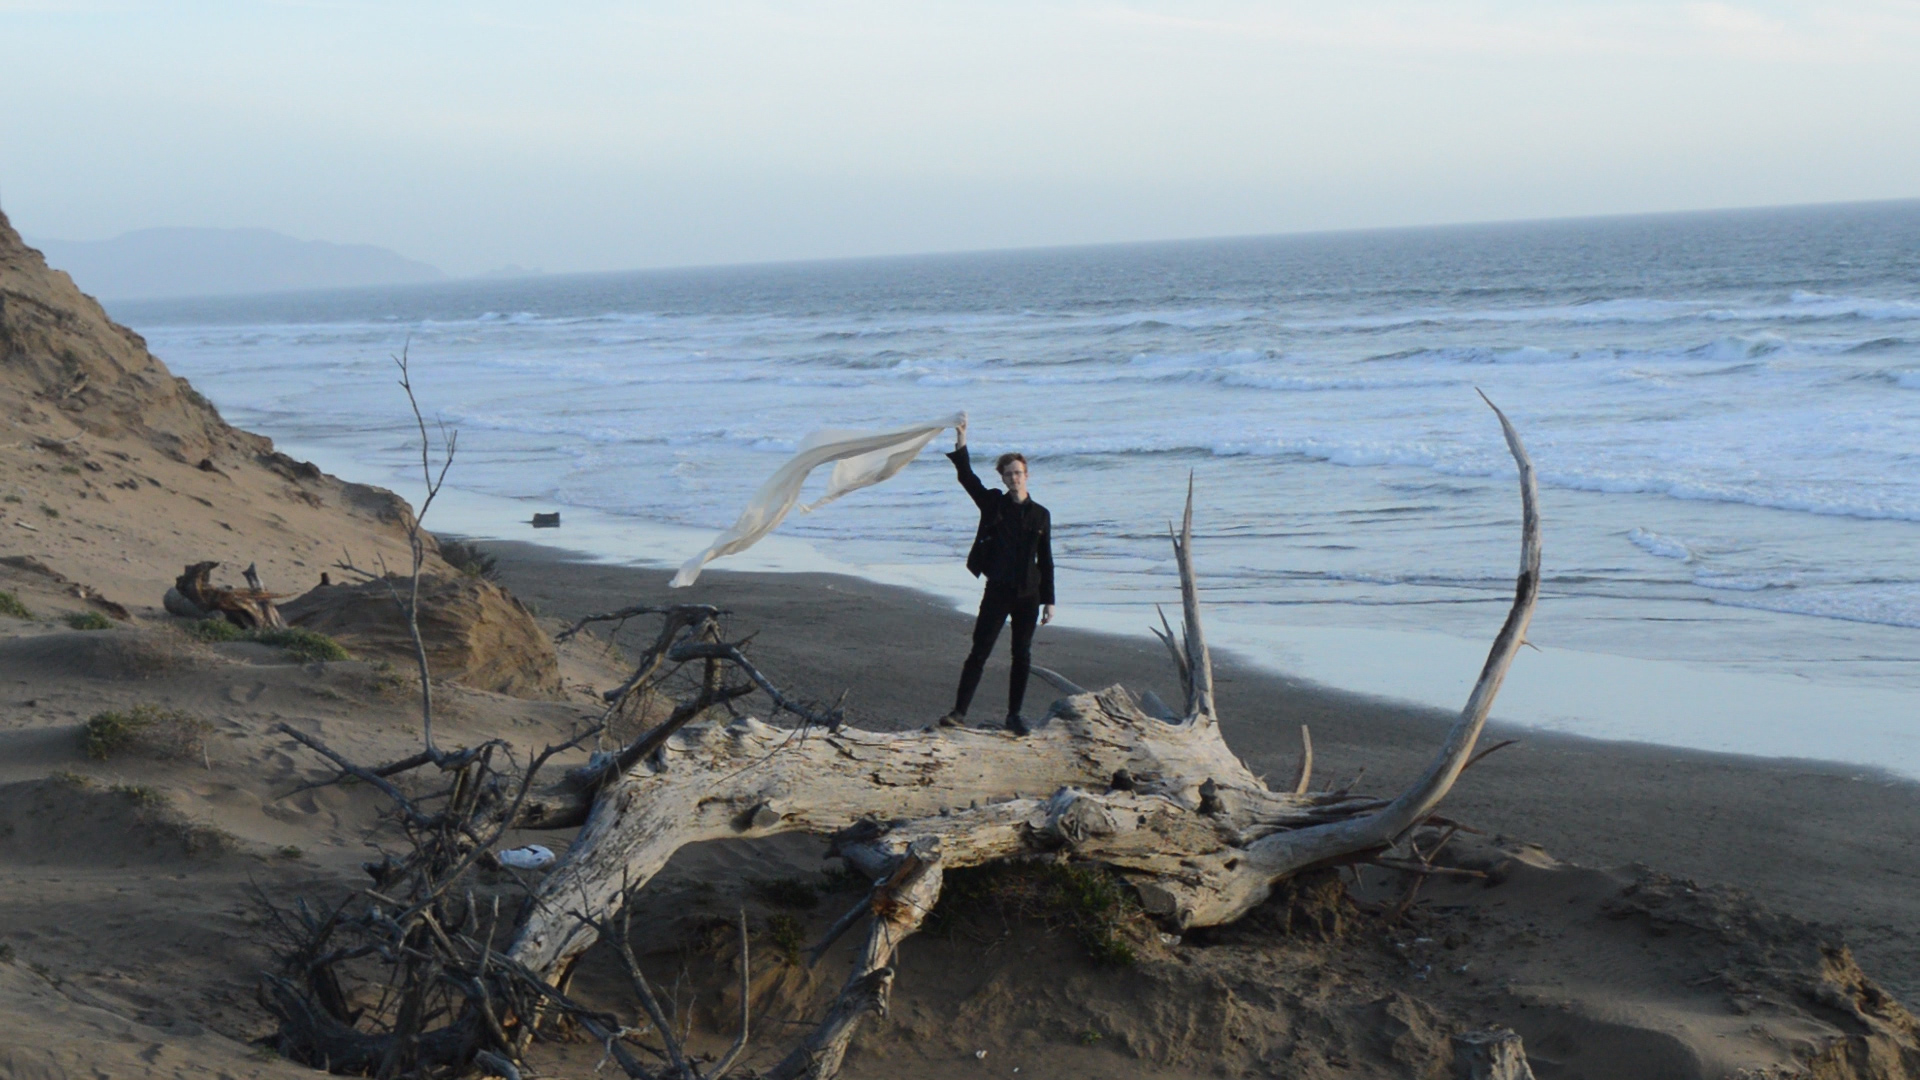
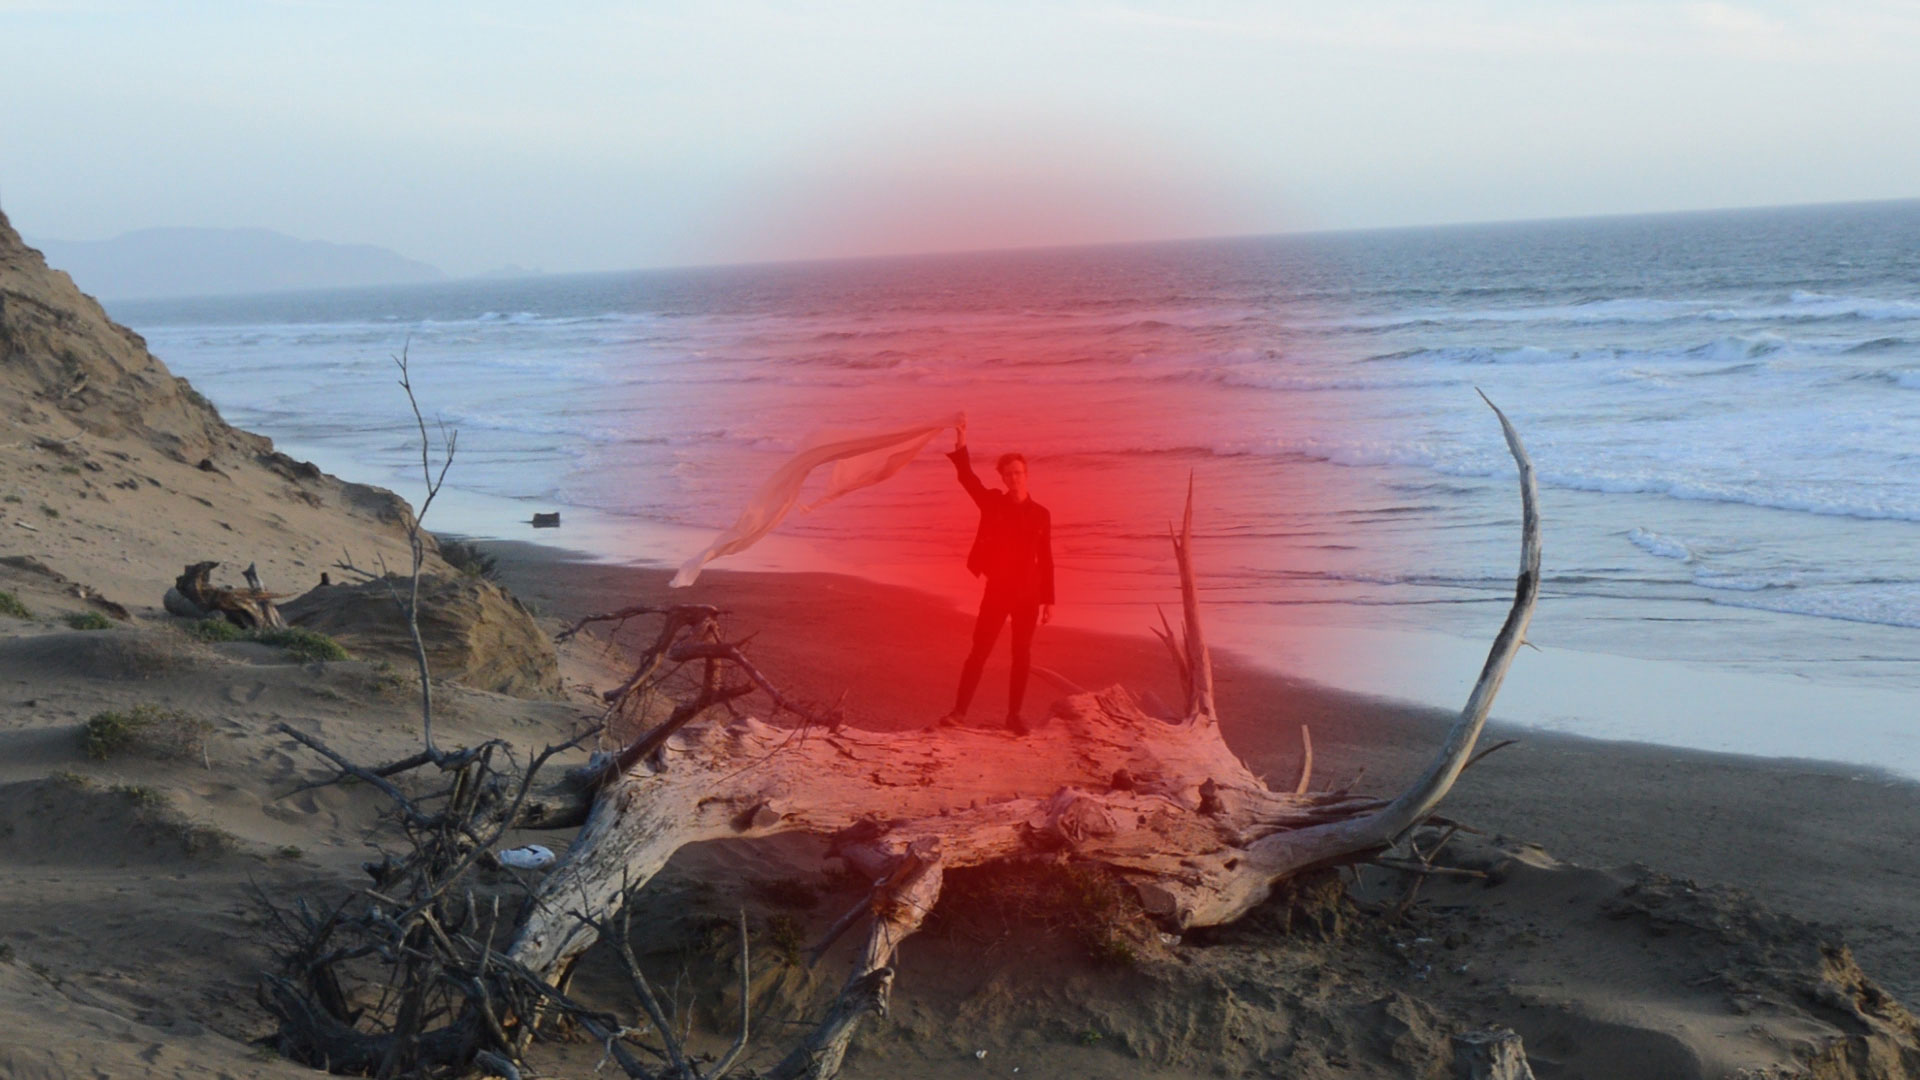
new photo, remove css overlay

Changed region(s): [[0.3125, 0.1528, 0.75, 0.8861]]

diff --git a/index.html b/index.html
@@ -23,8 +23,6 @@
 
   <body>
 
-    <div class="overlay"></div>
-
     <!-- Page Content -->
     <section>
       <div class="container">
